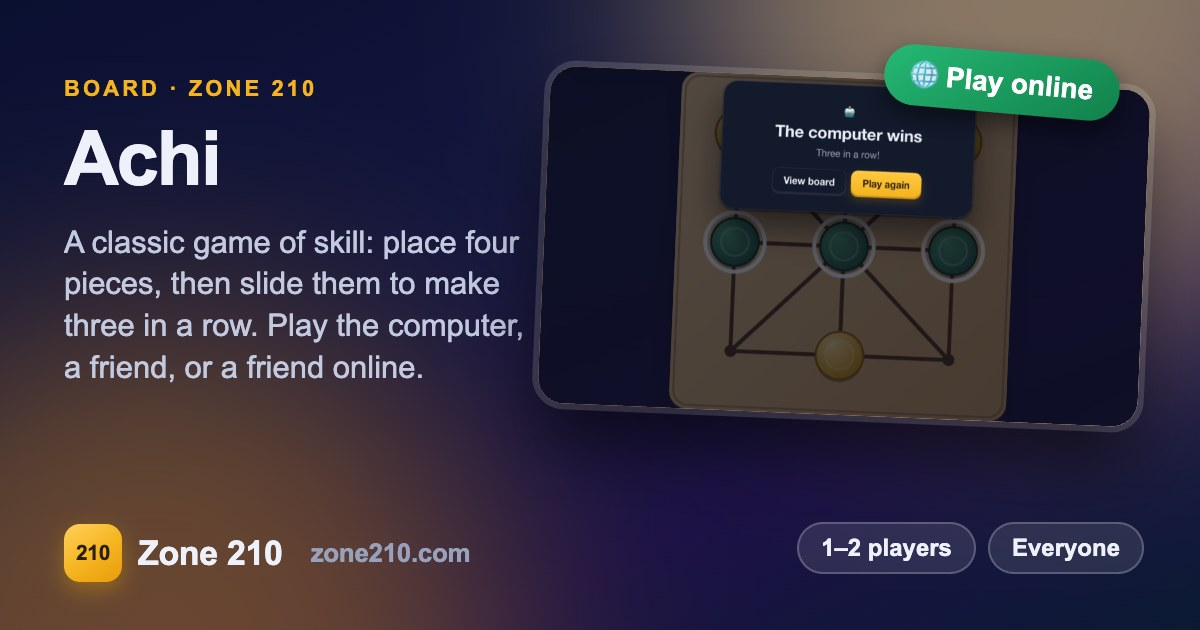
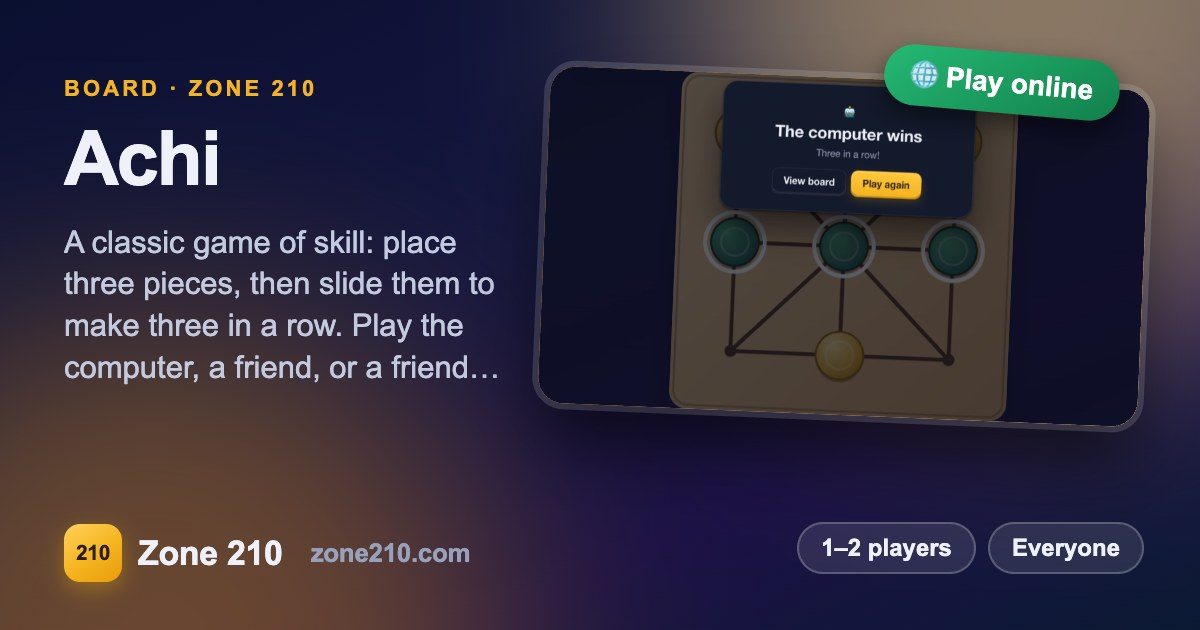
Achi: three pieces each
Each player now places 3 pieces (6 on the board), then slides them to
make three in a row. Rules text, description and share card updated.

Changed region(s): [[0.0617, 0.3619, 0.4317, 0.6032]]

diff --git a/public/games/achi/index.html b/public/games/achi/index.html
@@ -11,11 +11,11 @@
     <script src="../../assets/saver.js"></script>
     <link rel="stylesheet" href="../../assets/shell.css" />
     <link rel="stylesheet" href="../../assets/mills.css" />
-      <meta name="description" content="A classic game of skill: place four pieces, then slide them to make three in a row. Play the computer, a friend, or a friend online." />
+      <meta name="description" content="A classic game of skill: place three pieces, then slide them to make three in a row. Play the computer, a friend, or a friend online." />
     <meta property="og:type" content="website" />
     <meta property="og:site_name" content="Zone 210" />
     <meta property="og:title" content="Achi · Zone 210" />
-    <meta property="og:description" content="A classic game of skill: place four pieces, then slide them to make three in a row. Play the computer, a friend, or a friend online." />
+    <meta property="og:description" content="A classic game of skill: place three pieces, then slide them to make three in a row. Play the computer, a friend, or a friend online." />
     <meta property="og:url" content="https://zone210.com/games/achi/" />
     <meta property="og:image" content="https://zone210.com/assets/og/achi.jpg" />
     <meta property="og:image:width" content="1200" />
@@ -23,7 +23,7 @@
     <meta property="og:image:alt" content="Achi on Zone 210" />
     <meta name="twitter:card" content="summary_large_image" />
     <meta name="twitter:title" content="Achi · Zone 210" />
-    <meta name="twitter:description" content="A classic game of skill: place four pieces, then slide them to make three in a row. Play the computer, a friend, or a friend online." />
+    <meta name="twitter:description" content="A classic game of skill: place three pieces, then slide them to make three in a row. Play the computer, a friend, or a friend online." />
     <meta name="twitter:image" content="https://zone210.com/assets/og/achi.jpg" />
   </head>
   <body>
@@ -31,7 +31,7 @@
       <div class="g-head">
         <div>
           <h1>Achi</h1>
-          <p>A classic game of skill: place four pieces, then slide them to make three in a row.</p>
+          <p>A classic game of skill: place three pieces, then slide them to make three in a row.</p>
         </div>
         <div class="g-bar">
           <button class="g-btn ghost" id="mute" aria-pressed="false">Sound On</button>
@@ -66,8 +66,8 @@
 
       <details class="g-panel rules">
         <summary>How to play</summary>
-        <ul><li>Each player has 4 pieces. Take turns placing them on any empty point of the board.</li>
-          <li>Once all 8 pieces are down, take turns sliding one of your pieces along a line to an empty neighbouring point.</li>
+        <ul><li>Each player has 3 pieces. Take turns placing them on any empty point of the board.</li>
+          <li>Once all 6 pieces are down, take turns sliding one of your pieces along a line to an empty neighbouring point.</li>
           <li>The first player to get three of their pieces in a straight line wins, even during the placing phase. The lines run along the rows, the columns and both diagonals.</li>
           <li>If you can't move, you lose. If the same position comes up three times, the game is a draw.</li></ul>
       </details>

diff --git a/public/games/achi/logic.js b/public/games/achi/logic.js
@@ -1,4 +1,4 @@
-/** Achi rules and a computer opponent. Pure functions, no DOM. 3x3 points (index = row * 3 + col), 4 pieces each, players 1 and 2. */
+/** Achi rules and a computer opponent. Pure functions, no DOM. 3x3 points (index = row * 3 + col), 3 pieces each, players 1 and 2. */
 export const LINES = [[0, 1, 2], [3, 4, 5], [6, 7, 8], [0, 3, 6], [1, 4, 7], [2, 5, 8], [0, 4, 8], [2, 4, 6]];
 // lines of the board: rows, columns, and the two diagonals through the centre
 export const ADJ = (() => {
@@ -9,7 +9,7 @@ export const ADJ = (() => {
   return a;
 })();
 export const other = (p) => 3 - p;
-export const initial = () => ({ b: Array(9).fill(0), place: { 1: 4, 2: 4 }, turn: 1 });
+export const initial = () => ({ b: Array(9).fill(0), place: { 1: 3, 2: 3 }, turn: 1 });
 export const clone = (s) => ({ b: s.b.slice(), place: { 1: s.place[1], 2: s.place[2] }, turn: s.turn });
 
 export function actions(s, p = s.turn) {

diff --git a/public/assets/games.js b/public/assets/games.js
@@ -122,7 +122,7 @@ export const GAMES = [
     id: "achi",
     online: true,
     title: "Achi",
-    tagline: "A classic game of skill: place four pieces, then slide them to make three in a row. Play the computer, a friend, or a friend online.",
+    tagline: "A classic game of skill: place three pieces, then slide them to make three in a row. Play the computer, a friend, or a friend online.",
     audience: "all",
     cat: "strategy",
     tags: ["Board", "Strategy", "Traditional", "Online"],
